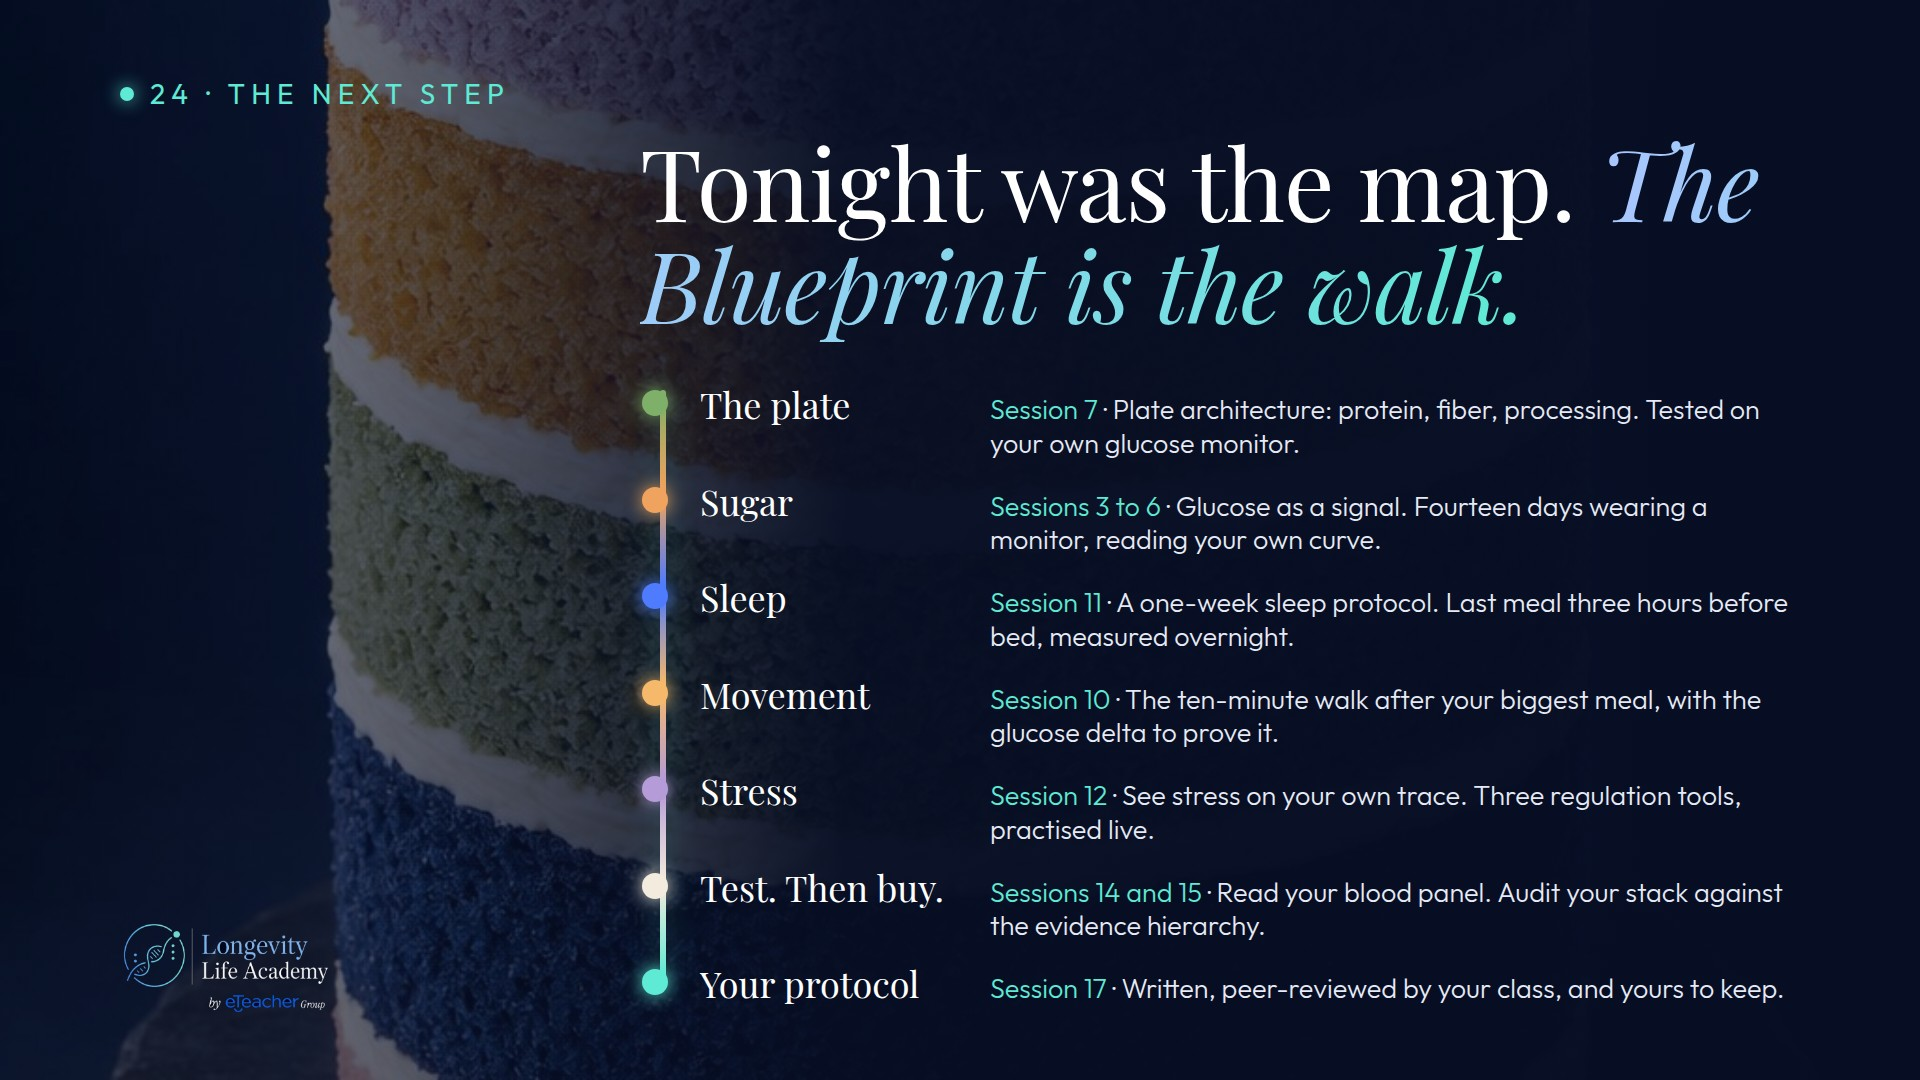
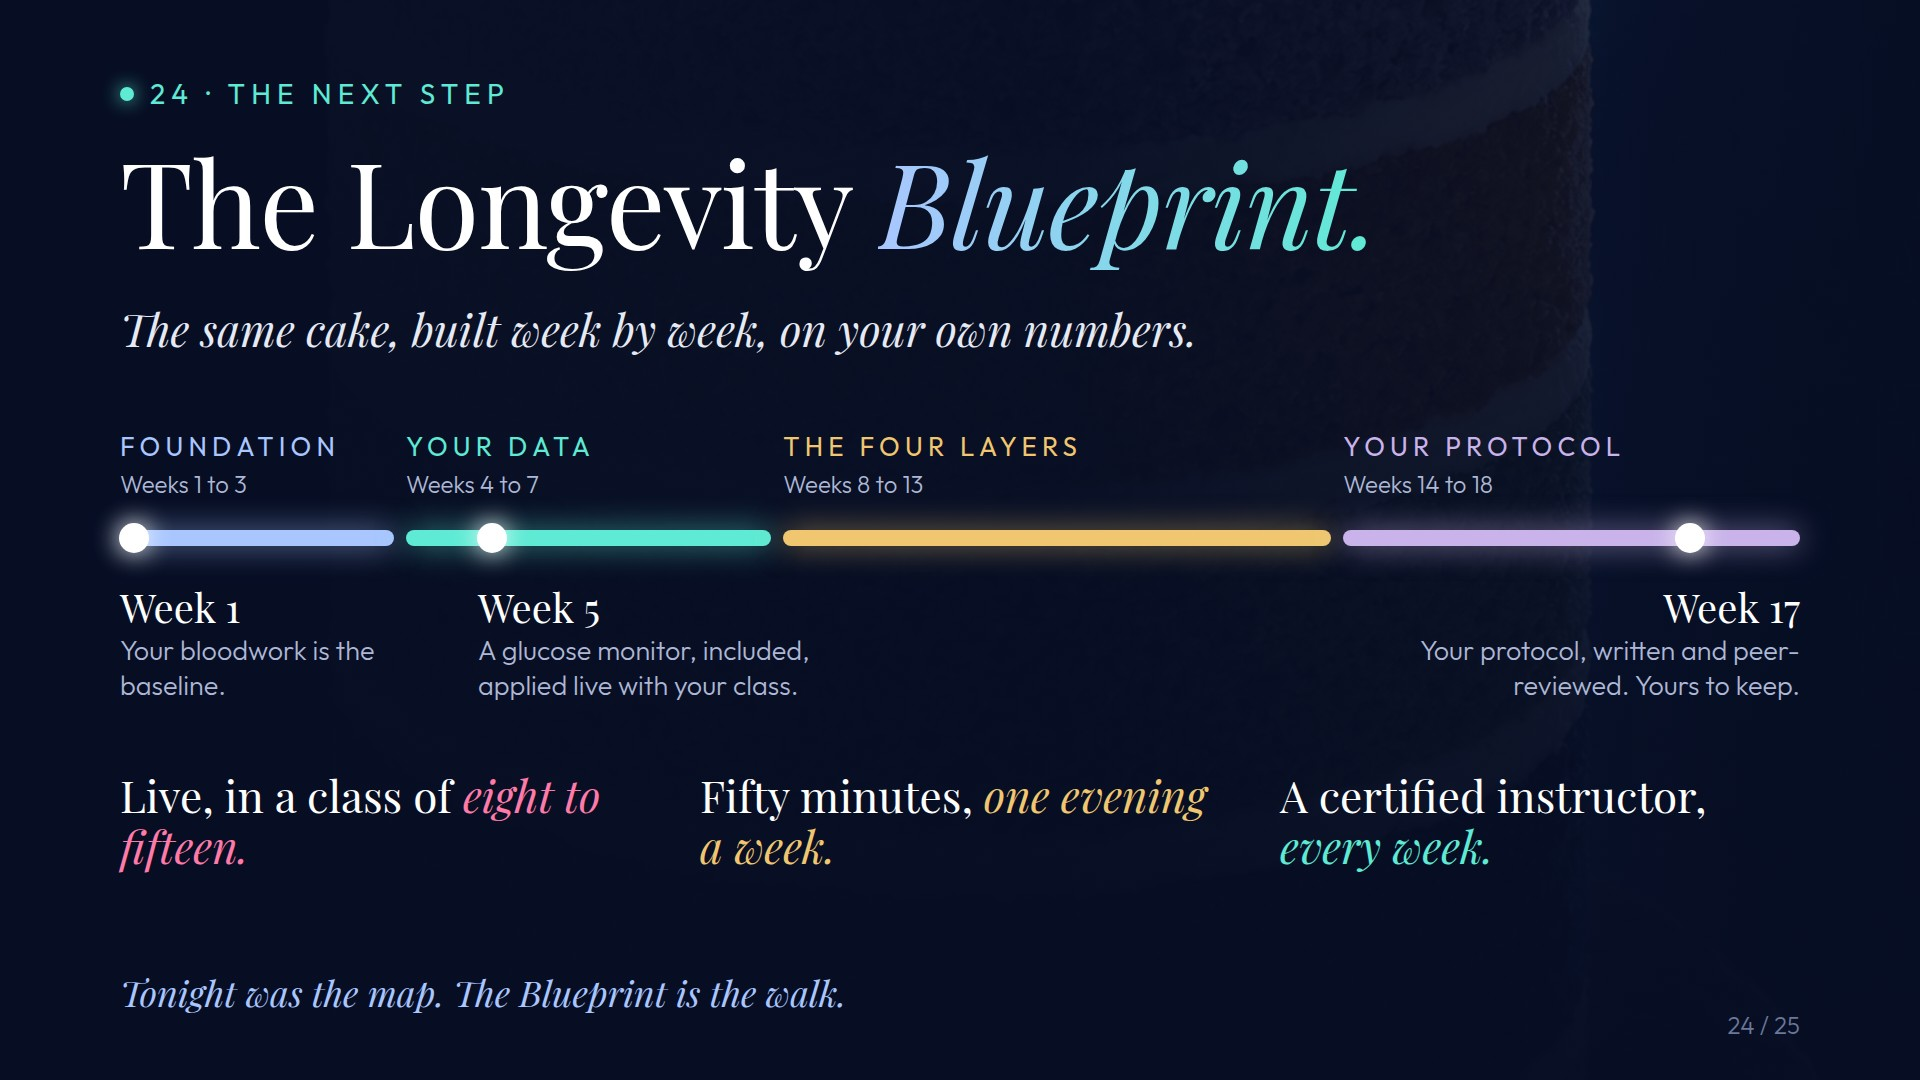
Blueprint as one slide; closers 22 to 25

Changed region(s): [[0.0312, 0.0, 0.9375, 1.0], [0.8438, 0.1222, 0.9375, 0.2139], [0.5312, 0.9167, 0.5625, 0.9472]]

diff --git a/slide-canvas/closers/src3.html b/slide-canvas/closers/src3.html
@@ -44,7 +44,7 @@ h1 i{font-style:italic;background:linear-gradient(90deg,#A9C6FF,#5EEAD4);-webkit
 <div style="text-align:center"><div class="pf" style="font-size:46px;color:#fff">Two Monday changes.</div><div class="t dim" style="font-size:28px">Dinner earlier. One plate rebuilt. You already have them.</div></div>
 <div style="text-align:right"><div class="pf" style="font-size:46px;color:#fff">You know your why.</div><div class="t dim" style="font-size:28px">More healthy years with the people you love.</div></div>
 </div>
-<img class="logo" src="img/lla-logo.png" alt=""><div class="pg">22 / 26</div>
+<img class="logo" src="img/lla-logo.png" alt=""><div class="pg">22 / 25</div>
 </section>
 
 <!-- 23 BARRIERS: glass chart panel left, three coloured words right -->
@@ -65,49 +65,47 @@ h1 i{font-style:italic;background:linear-gradient(90deg,#A9C6FF,#5EEAD4);-webkit
 <div><div class="kw purp">Cost</div><div class="t" style="margin-top:10px">The expensive end of the room gets all the attention.</div></div>
 </div>
 <div class="src" style="left:120px;right:auto;text-align:left;font-family:'Playfair Display',serif;font-style:italic;font-size:32px;color:#A9C6FF;bottom:64px;display:none">None of the three is willpower.</div>
-<img class="logo" src="img/lla-logo.png" alt=""><div class="pg">23 / 26</div>
+<img class="logo" src="img/lla-logo.png" alt=""><div class="pg">23 / 25</div>
 </section>
 
-<!-- 24 THE MAP: cake left, vertical rail with coloured dots -->
+<!-- 24 THE BLUEPRINT, one slide -->
 <section class="s" id="c24">
-<div class="photo" style="background-image:url(img/cake-navy.jpg);background-position:left center;opacity:.65"></div>
-<div style="position:absolute;inset:0;background:linear-gradient(90deg,rgba(7,14,36,.1) 0%,rgba(7,14,36,.65) 30%,rgba(7,14,36,.96) 44%,rgba(7,14,36,.98) 100%)"></div>
+<div class="photo" style="background-image:url(img/cake-navy.jpg);background-position:right center;opacity:.5"></div>
+<div style="position:absolute;inset:0;background:linear-gradient(90deg,rgba(7,14,36,.98) 0%,rgba(7,14,36,.94) 55%,rgba(7,14,36,.55) 100%),linear-gradient(180deg,rgba(7,14,36,.2) 0%,rgba(7,14,36,.9) 100%)"></div>
 <div class="eye">24 · THE NEXT STEP</div>
-<h1 style="left:640px;width:1180px;font-size:100px;top:130px">Tonight was the map. <i>The Blueprint is the walk.</i></h1>
-<div style="position:absolute;left:660px;top:390px;width:6px;height:590px;border-radius:3px;background:linear-gradient(180deg,#7FB069,#F0A35E,#4F7BFF,#F6B96B,#B59BD8,#F3EBDD,#5EEAD4);box-shadow:0 0 30px rgba(94,234,212,.4)"></div>
-<div style="position:absolute;left:700px;top:380px;width:1100px;display:grid;grid-template-columns:260px 1fr;row-gap:16px;column-gap:30px;align-items:baseline">
-<div class="pf" style="font-size:36px;color:#fff;position:relative"><span style="position:absolute;left:-58px;top:10px;width:26px;height:26px;border-radius:50%;background:#7FB069;box-shadow:0 0 18px #7FB069"></span>The plate</div><div class="t" style="font-size:27px;line-height:1.25"><span class="teal">Session 7</span> · Plate architecture: protein, fiber, processing. Tested on your own glucose monitor.</div>
-<div class="pf" style="font-size:36px;color:#fff;position:relative"><span style="position:absolute;left:-58px;top:10px;width:26px;height:26px;border-radius:50%;background:#F0A35E;box-shadow:0 0 18px #F0A35E"></span>Sugar</div><div class="t" style="font-size:27px;line-height:1.25"><span class="teal">Sessions 3 to 6</span> · Glucose as a signal. Fourteen days wearing a monitor, reading your own curve.</div>
-<div class="pf" style="font-size:36px;color:#fff;position:relative"><span style="position:absolute;left:-58px;top:10px;width:26px;height:26px;border-radius:50%;background:#4F7BFF;box-shadow:0 0 18px #4F7BFF"></span>Sleep</div><div class="t" style="font-size:27px;line-height:1.25"><span class="teal">Session 11</span> · A one-week sleep protocol. Last meal three hours before bed, measured overnight.</div>
-<div class="pf" style="font-size:36px;color:#fff;position:relative"><span style="position:absolute;left:-58px;top:10px;width:26px;height:26px;border-radius:50%;background:#F6B96B;box-shadow:0 0 18px #F6B96B"></span>Movement</div><div class="t" style="font-size:27px;line-height:1.25"><span class="teal">Session 10</span> · The ten-minute walk after your biggest meal, with the glucose delta to prove it.</div>
-<div class="pf" style="font-size:36px;color:#fff;position:relative"><span style="position:absolute;left:-58px;top:10px;width:26px;height:26px;border-radius:50%;background:#B59BD8;box-shadow:0 0 18px #B59BD8"></span>Stress</div><div class="t" style="font-size:27px;line-height:1.25"><span class="teal">Session 12</span> · See stress on your own trace. Three regulation tools, practised live.</div>
-<div class="pf" style="font-size:36px;color:#fff;position:relative"><span style="position:absolute;left:-58px;top:10px;width:26px;height:26px;border-radius:50%;background:#F3EBDD;box-shadow:0 0 18px #F3EBDD"></span>Test. Then buy.</div><div class="t" style="font-size:27px;line-height:1.25"><span class="teal">Sessions 14 and 15</span> · Read your blood panel. Audit your stack against the evidence hierarchy.</div>
-<div class="pf" style="font-size:36px;color:#fff;position:relative"><span style="position:absolute;left:-58px;top:10px;width:26px;height:26px;border-radius:50%;background:#5EEAD4;box-shadow:0 0 18px #5EEAD4"></span>Your protocol</div><div class="t" style="font-size:27px;line-height:1.25"><span class="teal">Session 17</span> · Written, peer-reviewed by your class, and yours to keep.</div>
+<h1 style="width:1700px">The Longevity <i>Blueprint.</i></h1>
+<div class="sub" style="top:300px;width:1600px">The same cake, built week by week, on your own numbers.</div>
+<!-- phase labels -->
+<div style="position:absolute;left:120px;top:430px;width:1680px;display:grid;grid-template-columns:3fr 4fr 6fr 5fr;gap:12px">
+<div><div class="lbl" style="color:#A9C6FF">FOUNDATION</div><div class="dim" style="font-size:24px;margin-top:6px">Weeks 1 to 3</div></div>
+<div><div class="lbl" style="color:#5EEAD4">YOUR DATA</div><div class="dim" style="font-size:24px;margin-top:6px">Weeks 4 to 7</div></div>
+<div><div class="lbl" style="color:#F0C770">THE FOUR LAYERS</div><div class="dim" style="font-size:24px;margin-top:6px">Weeks 8 to 13</div></div>
+<div><div class="lbl" style="color:#C9B3EA">YOUR PROTOCOL</div><div class="dim" style="font-size:24px;margin-top:6px">Weeks 14 to 18</div></div>
 </div>
-<img class="logo" src="img/lla-logo.png" alt="">
-</section>
-
-<!-- 25 THE BLUEPRINT: hero numeral + rail -->
-<section class="s" id="c25">
-<div class="photo" style="background-image:url(img/bg-desk.jpg);background-position:center 30%"></div><div class="vig"></div>
-<div class="eye">25 · THE LONGEVITY BLUEPRINT</div>
-<h1 style="font-size:104px;width:1700px">Eighteen weeks. <i>Your numbers.</i> One protocol you keep.</h1>
-<div class="pf teal" style="position:absolute;left:120px;top:400px;font-size:250px;line-height:.9;letter-spacing:-.04em">18</div>
-<div style="position:absolute;left:480px;top:430px;width:1320px"><div class="t" style="font-size:36px;line-height:1.35">live sessions, fifty minutes each, one evening a week, in a class of eight to fifteen, with a certified instructor. Recorded if you miss one.</div></div>
-<div class="rail" style="left:120px;top:660px;width:1680px"></div>
-<div class="dot" style="left:120px;top:666px;background:#4F7BFF;box-shadow:0 0 24px #4F7BFF"></div><div class="dot" style="left:540px;top:666px"></div><div class="dot" style="left:1170px;top:666px;background:#4F7BFF;box-shadow:0 0 24px #4F7BFF"></div><div class="dot" style="left:1800px;top:666px"></div>
-<div style="position:absolute;left:120px;top:700px;width:1680px;height:90px">
-<div style="position:absolute;left:0"><span class="pf" style="font-size:34px;color:#fff">Week 1</span> <span class="dim" style="font-size:26px">· your bloodwork</span></div>
-<div style="position:absolute;left:400px"><span class="pf" style="font-size:34px;color:#fff">Week 5</span> <span class="dim" style="font-size:26px">· glucose monitor, included</span></div>
-<div style="position:absolute;left:1050px"><span class="pf" style="font-size:34px;color:#fff">Week 11</span> <span class="dim" style="font-size:26px">· sleep, measured</span></div>
-<div style="position:absolute;right:0;text-align:right"><span class="pf" style="font-size:34px;color:#fff">Week 17</span> <span class="dim" style="font-size:26px">· your protocol</span></div>
+<!-- rail in four segments -->
+<div style="position:absolute;left:120px;top:530px;width:1680px;display:grid;grid-template-columns:3fr 4fr 6fr 5fr;gap:12px">
+<div style="height:16px;border-radius:8px;background:#A9C6FF;box-shadow:0 0 30px rgba(169,198,255,.6)"></div>
+<div style="height:16px;border-radius:8px;background:#5EEAD4;box-shadow:0 0 30px rgba(94,234,212,.6)"></div>
+<div style="height:16px;border-radius:8px;background:#F0C770;box-shadow:0 0 30px rgba(240,199,112,.55)"></div>
+<div style="height:16px;border-radius:8px;background:#C9B3EA;box-shadow:0 0 30px rgba(201,179,234,.6)"></div>
 </div>
-<div style="position:absolute;left:120px;top:800px;width:1680px;display:grid;grid-template-columns:1fr 1fr 1fr;gap:48px">
-<div><div class="kw pink" style="font-size:50px">Time</div><div class="t" style="font-size:27px;margin-top:8px;line-height:1.3">One evening a week. Between sessions: a log, a walk, a bedtime.</div></div>
-<div><div class="kw gold" style="font-size:50px">Trust</div><div class="t" style="font-size:27px;margin-top:8px;line-height:1.3">A class that knows your name, and an evidence hierarchy you learn to apply yourself.</div></div>
-<div><div class="kw purp" style="font-size:50px">Cost</div><div class="t" style="font-size:27px;margin-top:8px;line-height:1.3">No lab of your own. Your bloodwork, a monitor included, four foundation supplements, not a shelf.</div></div>
+<!-- three moments -->
+<div class="dot" style="left:134px;top:538px;background:#fff;box-shadow:0 0 26px #fff"></div>
+<div class="dot" style="left:492px;top:538px;background:#fff;box-shadow:0 0 26px #fff"></div>
+<div class="dot" style="left:1690px;top:538px;background:#fff;box-shadow:0 0 26px #fff"></div>
+<div style="position:absolute;left:120px;top:580px;width:1680px;height:120px">
+<div style="position:absolute;left:0;width:340px"><div class="pf" style="font-size:40px;color:#fff">Week 1</div><div class="t dim" style="font-size:27px;line-height:1.3">Your bloodwork is the baseline.</div></div>
+<div style="position:absolute;left:358px;width:420px"><div class="pf" style="font-size:40px;color:#fff">Week 5</div><div class="t dim" style="font-size:27px;line-height:1.3">A glucose monitor, included, applied live with your class.</div></div>
+<div style="position:absolute;right:0;width:420px;text-align:right"><div class="pf" style="font-size:40px;color:#fff">Week 17</div><div class="t dim" style="font-size:27px;line-height:1.3">Your protocol, written and peer-reviewed. Yours to keep.</div></div>
 </div>
-<div class="pg">25 / 26</div>
+<!-- the three sentences -->
+<div style="position:absolute;left:120px;top:770px;width:1680px;display:grid;grid-template-columns:1fr 1fr 1fr;gap:60px">
+<div><div class="pf" style="font-size:44px;line-height:1.15;color:#fff">Live, in a class of <i class="pink" style="font-style:italic">eight to fifteen.</i></div></div>
+<div><div class="pf" style="font-size:44px;line-height:1.15;color:#fff">Fifty minutes, <i class="gold" style="font-style:italic">one evening a week.</i></div></div>
+<div><div class="pf" style="font-size:44px;line-height:1.15;color:#fff">A certified instructor, <i class="teal" style="font-style:italic">every week.</i></div></div>
+</div>
+<div class="pf" style="position:absolute;left:120px;bottom:64px;font-style:italic;font-size:36px;color:#A9C6FF">Tonight was the map. The Blueprint is the walk.</div>
+<div class="pg">24 / 25</div>
 </section>
 
 <!-- 26 END CARD: the line from her to you -->

diff --git a/slide-canvas/closers/index.html b/slide-canvas/closers/index.html
@@ -1,3 +1,3 @@
 <!doctype html><html lang="en"><head><meta charset="utf-8"><meta name="viewport" content="width=device-width,initial-scale=1"><title>Openers and closers</title>
 <style>*{box-sizing:border-box;margin:0;padding:0}body{background:#06122B;color:#F3EBDD;font-family:Inter,system-ui,sans-serif;font-weight:300}.wrap{max-width:1500px;margin:0 auto;padding:40px 24px 120px}h1{font-family:Georgia,serif;font-style:italic;font-weight:400;font-size:46px;margin-bottom:10px}.lead{font-size:19px;color:#9DB3D6;line-height:1.5;max-width:1000px;margin-bottom:40px}.slot{padding:36px 0;border-top:1px solid rgba(255,255,255,.1)}h2{font-family:Georgia,serif;font-style:italic;font-weight:400;font-size:32px;margin-bottom:10px}p{font-size:18px;line-height:1.55;color:#D6DEEC;max-width:1100px;margin-bottom:22px}.main{width:100%;border-radius:12px;display:block;box-shadow:0 30px 80px rgba(0,0,0,.5)}.pair{display:grid;grid-template-columns:1fr 1fr;gap:20px;padding-top:14px}figure img{width:100%;border-radius:10px;display:block;filter:grayscale(.6) brightness(.7)}figcaption{font-size:15px;color:#8AD2FF;margin-top:8px;letter-spacing:.08em}details{margin-top:18px}summary{cursor:pointer;color:#9DB3D6;font-size:17px;list-style:none}summary::before{content:'+ ';color:#8AD2FF}@media(max-width:900px){.pair{grid-template-columns:1fr}}</style></head><body><div class="wrap">
-<h1>Openers and closers, for Omri</h1><p class="lead">Not on Julie's link. The opener replaces slide 1; the five closers follow Why. Intention. Resources. as 22 to 26. Earlier versions sit folded under each slot.</p><section class="slot"><h2>Opening, light</h2><p>Approved. The academy logo from the live site, Live Masterclass, Julie Gibson Clark, Founding Faculty.</p><img class="main" src="frames/op-a.jpg" alt=""><details><summary>options, 1</summary><div class="pair"><figure><img src="frames/op-b.jpg" loading="lazy" alt=""><figcaption>Option 2</figcaption></figure></div></details></section><section class="slot"><h2>22 · You've already taken the first step.</h2><p>Being here is the first layer. Tonight, this week's two Monday changes, and the why they already have.</p><img class="main" src="frames/c22.jpg" alt=""><details><summary>earlier versions, 2</summary><div class="pair"><figure><img src="frames/s1-a.jpg" loading="lazy" alt=""><figcaption>Option 2</figcaption></figure><figure><img src="frames/s1-b.jpg" loading="lazy" alt=""><figcaption>Option 3</figcaption></figure></div></details></section><section class="slot"><h2>23 · So why is it so hard to keep going?</h2><p>Time, trust, cost, in the audience's own words. None of them is willpower.</p><img class="main" src="frames/c23.jpg" alt=""><details><summary>earlier versions, 2</summary><div class="pair"><figure><img src="frames/s2-a.jpg" loading="lazy" alt=""><figcaption>Option 2</figcaption></figure><figure><img src="frames/s2-b.jpg" loading="lazy" alt=""><figcaption>Option 3</figcaption></figure></div></details></section><section class="slot"><h2>24 · Tonight was the map. The Blueprint is the walk.</h2><p>The linkage slide. Every layer of the hour is a live session in the course, with the session number from the published syllabus: the plate is Session 7, Plate Architecture: protein, fiber, processing. Sugar is Sessions 3 to 6, glucose as a signal and fourteen days on a monitor. Sleep is Session 11, last meal three hours before bed, measured overnight. Movement is Session 10, the post-meal walk with the glucose delta. Stress is Session 12. Test. Then buy. is Sessions 14 and 15. Her protocol is Session 17, written and peer-reviewed.</p><img class="main" src="frames/c24.jpg" alt=""></section><section class="slot"><h2>25 · Eighteen weeks. Your numbers. One protocol you keep.</h2><p>The course answers the three barriers with what it actually does: one 50-minute evening a week in a class of 8 to 15, recorded if missed; a certified instructor every week and an evidence hierarchy you learn to apply; no lab of your own, your bloodwork as baseline, the glucose monitor included and applied live in week 5, a four-supplement foundation set. The track marks weeks 1, 5, 11 and 17.</p><img class="main" src="frames/c25.jpg" alt=""><details><summary>earlier versions, 2</summary><div class="pair"><figure><img src="frames/s3-a.jpg" loading="lazy" alt=""><figcaption>Option 2</figcaption></figure><figure><img src="frames/s3-b.jpg" loading="lazy" alt=""><figcaption>Option 3</figcaption></figure></div></details></section><section class="slot"><h2>26 · It's your life. Live it well.</h2><p>The academy's own line as the end card, with her sentence under it: it took me twenty-four years to find this path, you can be on it in eighteen weeks.</p><img class="main" src="frames/c26.jpg" alt=""><details><summary>earlier versions, 2</summary><div class="pair"><figure><img src="frames/s4-a.jpg" loading="lazy" alt=""><figcaption>Option 2</figcaption></figure><figure><img src="frames/s4-b.jpg" loading="lazy" alt=""><figcaption>Option 3</figcaption></figure></div></details></section></div></body></html>
+<h1>Openers and closers, for Omri</h1><p class="lead">Not on Julie's link. The opener replaces slide 1; the four closers follow Why. Intention. Resources. as 22 to 25. Earlier versions sit folded under each slot.</p><section class="slot"><h2>Opening, light</h2><p>Approved. The academy logo from the live site, Live Masterclass, Julie Gibson Clark, Founding Faculty.</p><img class="main" src="frames/op-a.jpg?v=3" alt=""><details><summary>earlier versions, 1</summary><div class="pair"><figure><img src="frames/op-b.jpg" loading="lazy" alt=""><figcaption>Option 2</figcaption></figure></div></details></section><section class="slot"><h2>22 · You've already taken the first step.</h2><p>The eighteen-dot rail with tonight's dot lit. Three things they already have.</p><img class="main" src="frames/c22.jpg?v=3" alt=""><details><summary>earlier versions, 2</summary><div class="pair"><figure><img src="frames/s1-a.jpg" loading="lazy" alt=""><figcaption>Option 2</figcaption></figure><figure><img src="frames/s1-b.jpg" loading="lazy" alt=""><figcaption>Option 3</figcaption></figure></div></details></section><section class="slot"><h2>23 · So why is it so hard to keep going?</h2><p>Time, trust, cost, in the audience's own words. None of them is willpower.</p><img class="main" src="frames/c23.jpg?v=3" alt=""><details><summary>earlier versions, 2</summary><div class="pair"><figure><img src="frames/s2-a.jpg" loading="lazy" alt=""><figcaption>Option 2</figcaption></figure><figure><img src="frames/s2-b.jpg" loading="lazy" alt=""><figcaption>Option 3</figcaption></figure></div></details></section><section class="slot"><h2>24 · The Longevity Blueprint.</h2><p>One slide. The same cake, built week by week, on your own numbers. The eighteen weeks in four phases from the published syllabus, the three moments that matter marked: week 1 your bloodwork, week 5 the glucose monitor applied live, week 17 your written protocol. Three sentences: live in a class of eight to fifteen, fifty minutes one evening a week, a certified instructor every week.</p><img class="main" src="frames/c24.jpg?v=3" alt=""><details><summary>earlier versions, 2</summary><div class="pair"><figure><img src="frames/s3-a.jpg" loading="lazy" alt=""><figcaption>Option 2</figcaption></figure><figure><img src="frames/s3-b.jpg" loading="lazy" alt=""><figcaption>Option 3</figcaption></figure></div></details></section><section class="slot"><h2>25 · It's your life. Live it well.</h2><p>The academy's line as the end card. Twenty-four years on the left, eighteen weeks lit on the right.</p><img class="main" src="frames/c26.jpg?v=3" alt=""><details><summary>earlier versions, 2</summary><div class="pair"><figure><img src="frames/s4-a.jpg" loading="lazy" alt=""><figcaption>Option 2</figcaption></figure><figure><img src="frames/s4-b.jpg" loading="lazy" alt=""><figcaption>Option 3</figcaption></figure></div></details></section></div></body></html>
